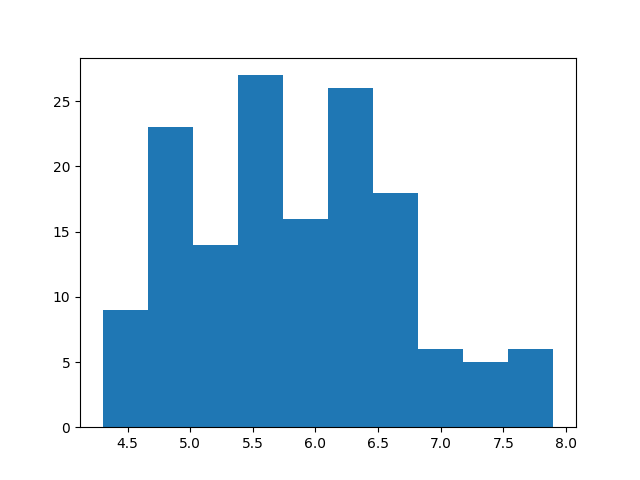
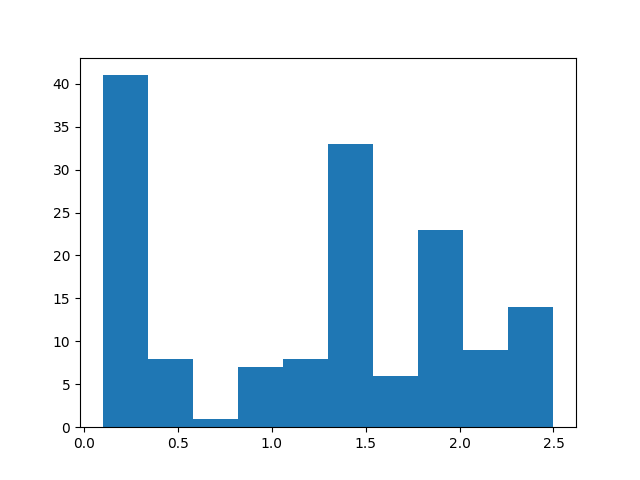
Add class that will act as a container for the property needed to create a plot

diff --git a/WindowFormProject/CsvPlotterAndGrapher/Form1.Designer.cs b/WindowFormProject/CsvPlotterAndGrapher/Form1.Designer.cs
@@ -1,4 +1,6 @@
 
+using ProjectLibrary;
+
 namespace CsvPlotterAndGrapher
 {
     partial class Form1
@@ -31,6 +33,7 @@ namespace CsvPlotterAndGrapher
         {
             this.OpenFileButton = new System.Windows.Forms.Button();
             this.button1 = new System.Windows.Forms.Button();
+            this.comboBox1 = new System.Windows.Forms.ComboBox();
             this.SuspendLayout();
             // 
             // OpenFileButton
@@ -52,11 +55,23 @@ namespace CsvPlotterAndGrapher
             this.button1.Text = "button1";
             this.button1.UseVisualStyleBackColor = true;
             // 
+            // comboBox1
+            // 
+            this.comboBox1.DropDownStyle = System.Windows.Forms.ComboBoxStyle.DropDownList;
+            this.comboBox1.FormattingEnabled = true;
+            this.comboBox1.Items.AddRange(CsvPlotter.GetPlotTypesValues());
+            this.comboBox1.SelectedIndex = 0;
+            this.comboBox1.Location = new System.Drawing.Point(340, 172);
+            this.comboBox1.Name = "comboBox1";
+            this.comboBox1.Size = new System.Drawing.Size(121, 21);
+            this.comboBox1.TabIndex = 1;
+            // 
             // Form1
             // 
             this.AutoScaleDimensions = new System.Drawing.SizeF(6F, 13F);
             this.AutoScaleMode = System.Windows.Forms.AutoScaleMode.Font;
             this.ClientSize = new System.Drawing.Size(800, 450);
+            this.Controls.Add(this.comboBox1);
             this.Controls.Add(this.OpenFileButton);
             this.Name = "Form1";
             this.Text = "Form1";
@@ -68,6 +83,7 @@ namespace CsvPlotterAndGrapher
 
         private System.Windows.Forms.Button OpenFileButton;
         private System.Windows.Forms.Button button1;
+        private System.Windows.Forms.ComboBox comboBox1;
     }
 }
 

diff --git a/WindowFormProject/CsvPlotterAndGrapher/Form1.cs b/WindowFormProject/CsvPlotterAndGrapher/Form1.cs
@@ -9,7 +9,7 @@ namespace CsvPlotterAndGrapher
     public partial class Form1 : Form
     {
         String csvPath = "";
-        static string apiURL = "http://localhost:5000/CsvReader/path1";
+      
         public Form1()
         {
             InitializeComponent();
@@ -24,7 +24,7 @@ namespace CsvPlotterAndGrapher
             openFileDialog.Filter = "CSV files|*.csv";
             openFileDialog.InitialDirectory = @"C:\";
 
-            //open dialog to open a file and return its result
+            //open dialog to open a file 
             DialogResult dialogResult = openFileDialog.ShowDialog();
 
             switch (dialogResult)
@@ -34,7 +34,9 @@ namespace CsvPlotterAndGrapher
 
                     string[] columns = await CsvReader.GetCsvColumns(this.csvPath);
                     
-                    MessageBox.Show(text:string.Join(",",columns));
+                    
+                    
+                    //MessageBox.Show(text:string.Join(",",columns));
                     break;
             }
         }

diff --git a/WindowFormProject/ApiLibrary/CsvPlotter.cs b/WindowFormProject/ApiLibrary/CsvPlotter.cs
@@ -9,8 +9,22 @@ using System.Threading.Tasks;
 
 namespace ProjectLibrary
 {
-    public class CsvPlotter
+    static public class CsvPlotter
     {
+        enum PlotTypes
+        {
+            Histogram,
+            Scatter,
+
+        }
+        static private string[] plotTypesValues = Enum.GetNames(typeof(PlotTypes));
+
+        
+        static public string[] GetPlotTypesValues()
+        {
+            return plotTypesValues;
+
+        }
         static public async Task DisplayHistogram(string columnToHistogram)
         {
             string plotName = "plot1";
@@ -41,7 +55,7 @@ namespace ProjectLibrary
             Bitmap bitmap=ImageReader.CreateImageFromRGB(width, height, imageData);
             #endregion
 
-          
+            
             bitmap.Save(@"C:\Users\Nicho\Desktop\Projects\CsvPlotterAndGrapher\" +"plot1.png",ImageFormat.Png);
         }
     }

diff --git a/WindowFormProject/ApiLibrary/Converter.cs b/WindowFormProject/ApiLibrary/Converter.cs
@@ -5,7 +5,7 @@ using System.Text;
 
 namespace ProjectLibrary
 {
-    public class DataStructureConverter
+    static public class DataStructureConverter
     {
         /// <summary>
         /// example: convert "[name,car,house]" to [name,car,house]
@@ -91,5 +91,14 @@ namespace ProjectLibrary
             return arr;
 
         }
+    }
+    
+    static public class EnumConverter
+    {
+        static public T ToEnum<T>(this string value)
+        {
+            return (T)Enum.Parse(typeof(T), value, true);
+        }
+
     }
 }

diff --git a/WindowFormProject/ApiLibrary/PlotsAttributes/PlotProperty.cs b/WindowFormProject/ApiLibrary/PlotsAttributes/PlotProperty.cs
@@ -1,0 +1,16 @@
+using System;
+using System.Collections.Generic;
+using System.Text;
+
+namespace ProjectLibrary
+{
+    /// <summary>
+    /// This class or the other classess that derrive from this  will be instantiated by using [PropertyGrid].
+    /// Class's properties will be displayed to be filled by the user
+    /// common property for plot like name,size color of the background that are unrelated to the plot types
+    /// </summary>
+    class PlotProperty
+    {
+        protected string name;
+    }
+}

diff --git a/WindowFormProject/RestApiTesting/Program.cs b/WindowFormProject/RestApiTesting/Program.cs
@@ -18,7 +18,7 @@ namespace RestApiTesting
 
             //await FlaskApi.GetRequest(apiURL);
             await CsvReader.GetCsvColumns("C:/Users/Nicho/Desktop/Projects/CsvPlotterAndGrapher/csvTest.csv");
-            await CsvPlotter.DisplayHistogram("sepal length");
+            await CsvPlotter.DisplayHistogram("petal width");
 
 
 

diff --git a/WindowFormProject/ApiLibrary/PlotsAttributes/HistogramAttributes.cs b/WindowFormProject/ApiLibrary/PlotsAttributes/HistogramAttributes.cs
@@ -1,0 +1,14 @@
+using System;
+using System.Collections.Generic;
+using System.Text;
+
+namespace ProjectLibrary.PlotsAttributes
+{
+    class HistogramAttributes:PlotProperty
+    {
+        HistogramAttributes()
+        {
+            
+        }
+    }
+}
